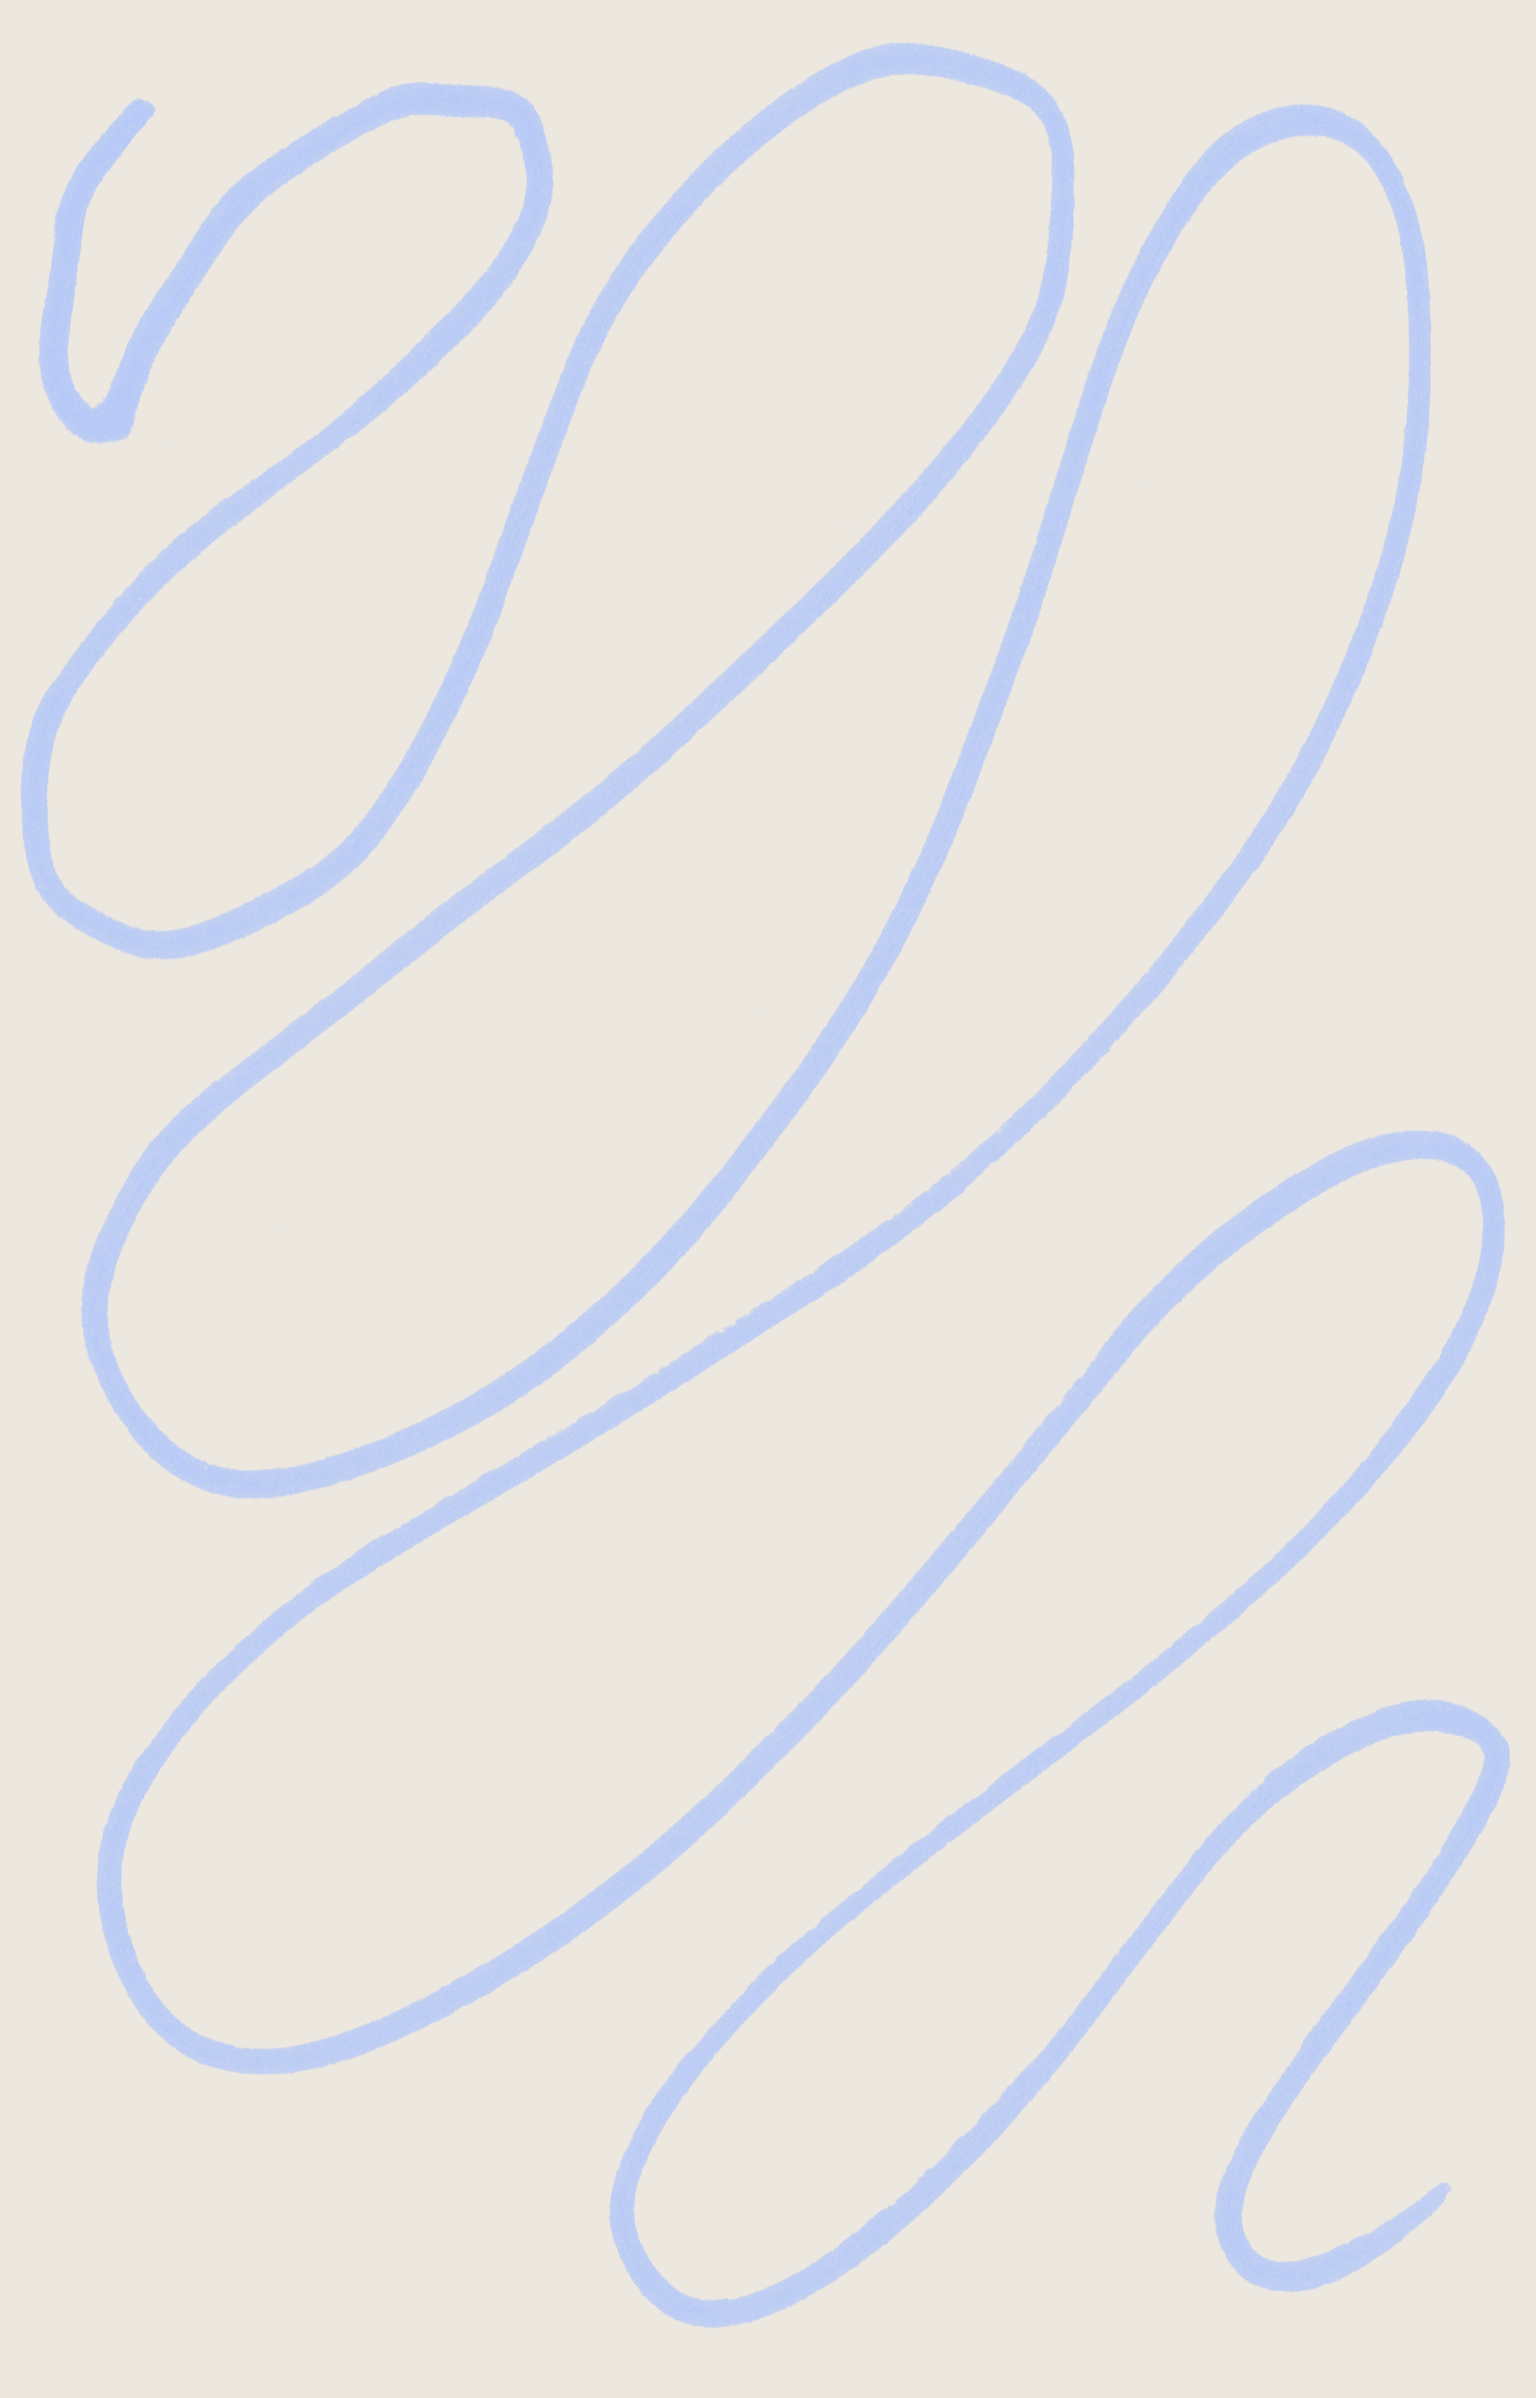
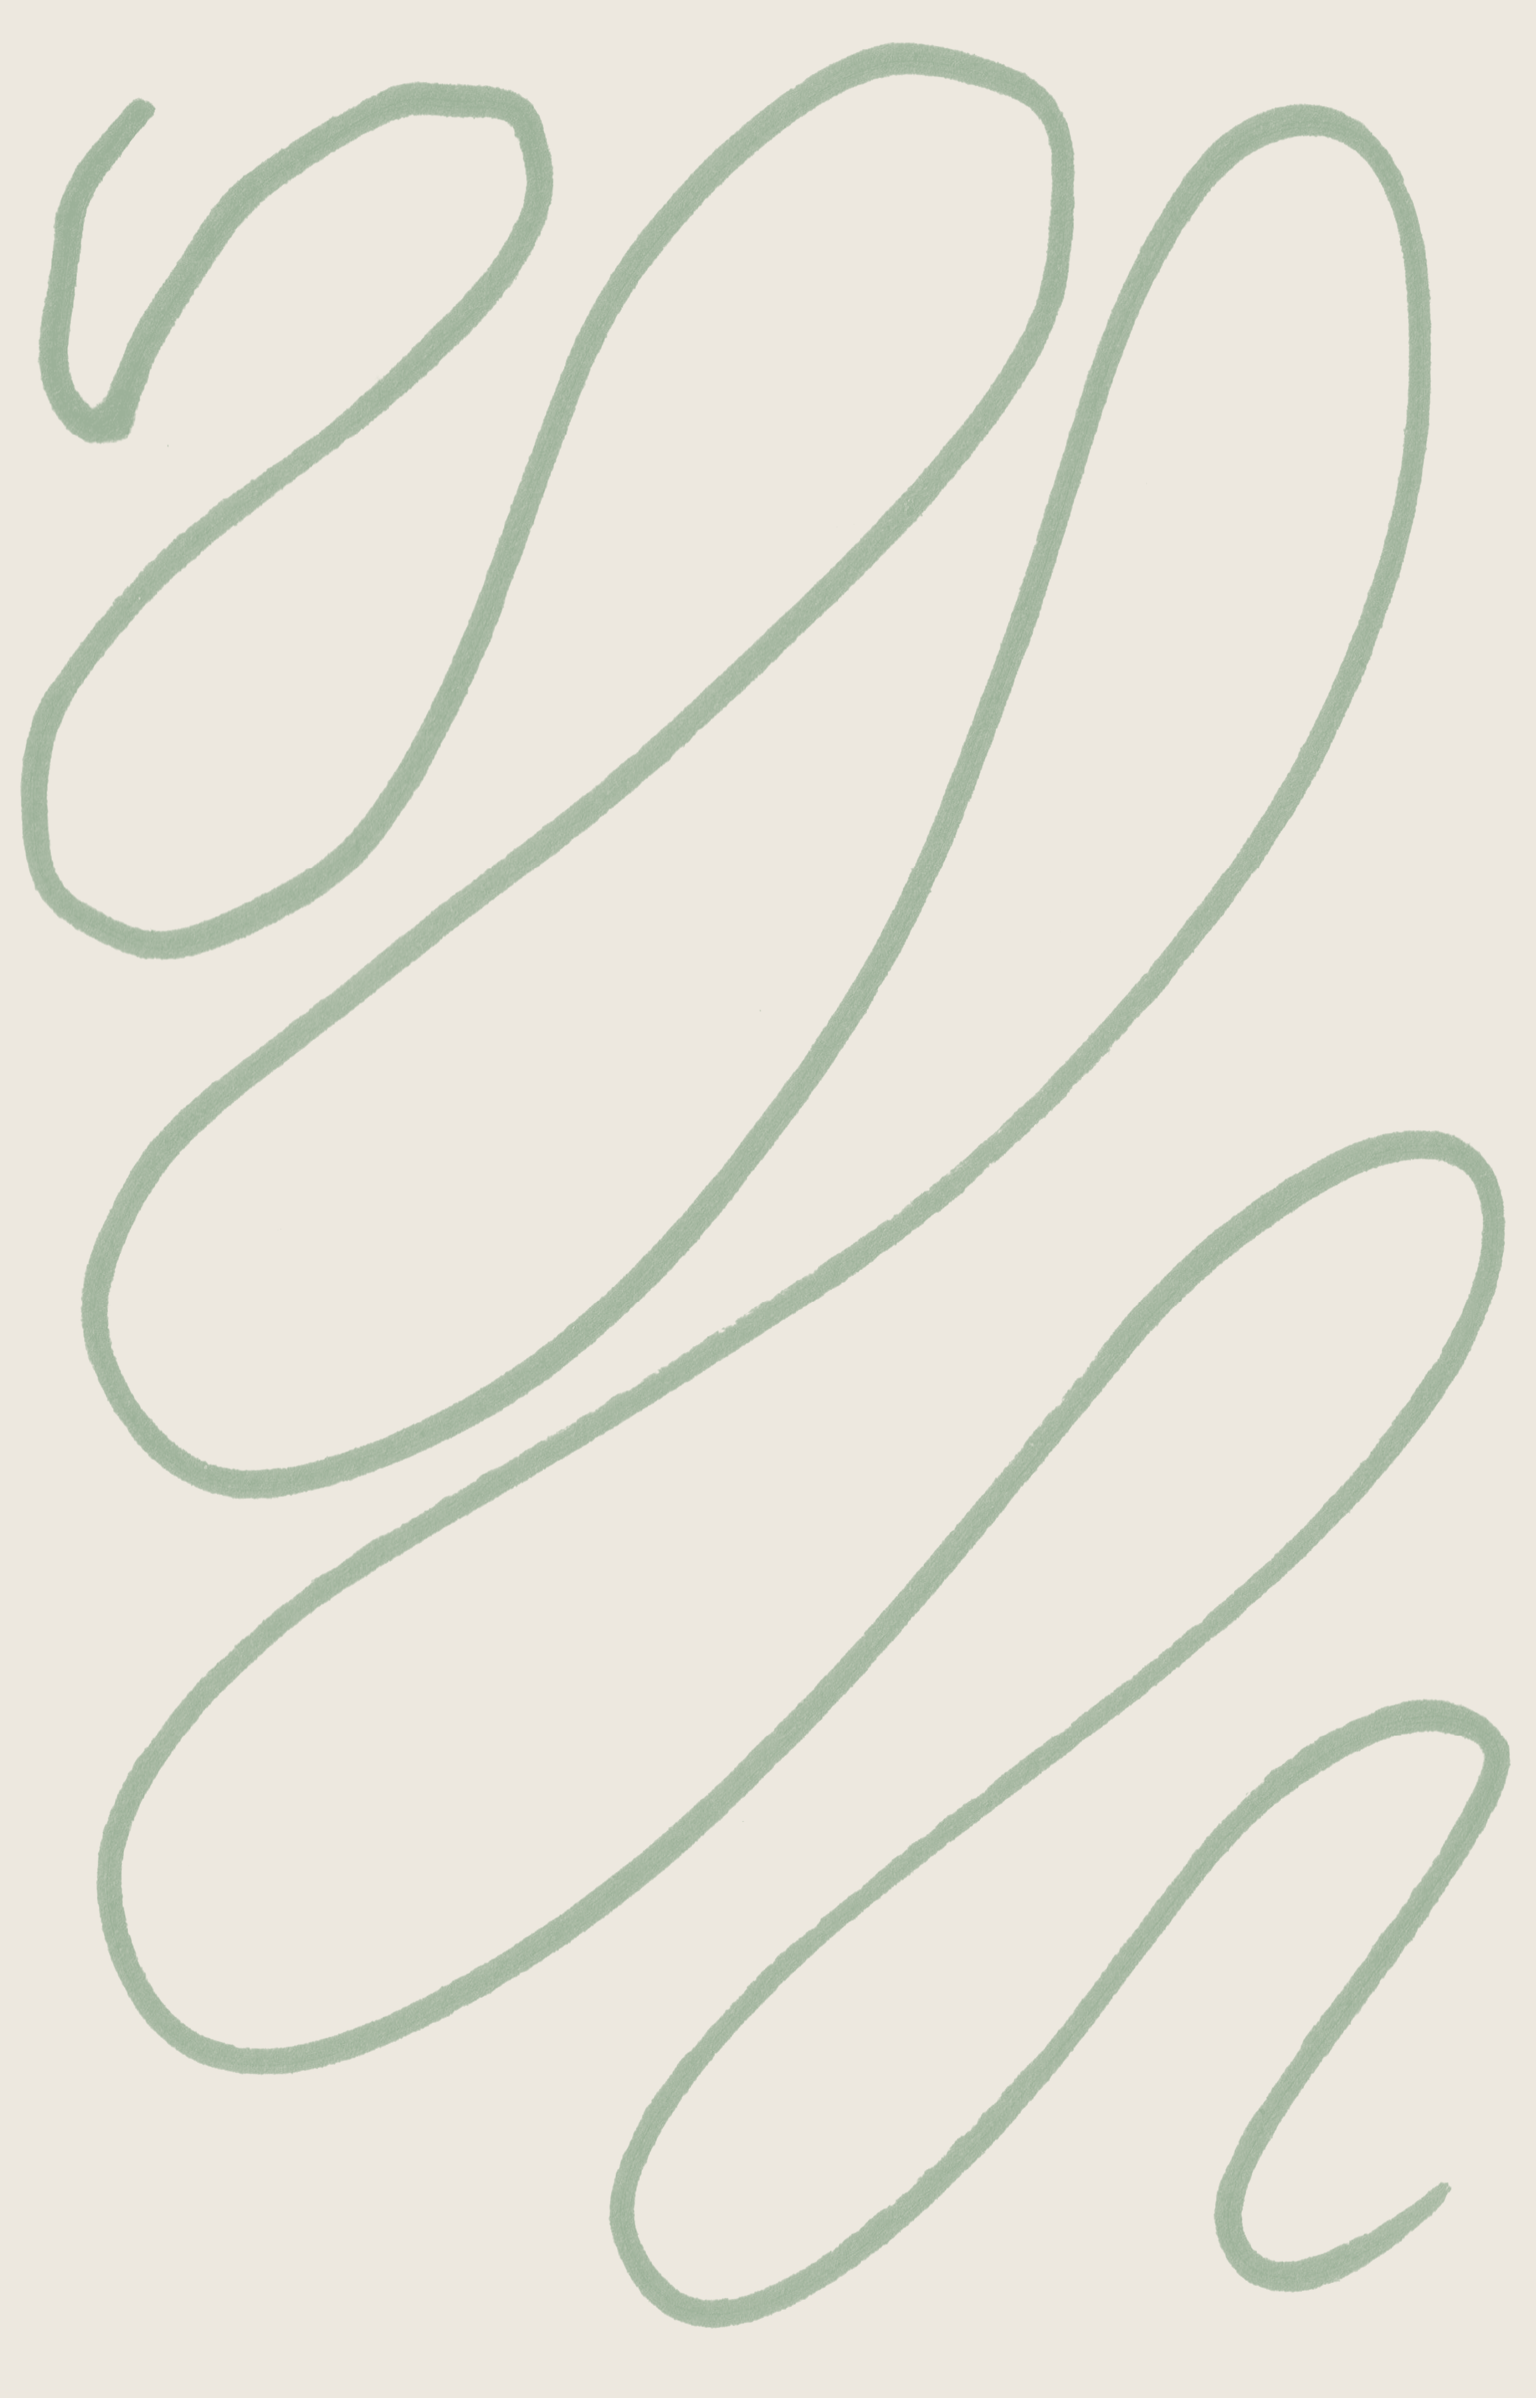
fix: restore missing mobile contact mask SVG

diff --git a/index.html b/index.html
@@ -247,13 +247,13 @@
               <button class="portfolio-strip" type="button" data-detail-target="school-03">
                 <span class="portfolio-strip-media cover-school-03"></span>
                 <span class="portfolio-strip-hover">
-                  <strong>AE 人物混剪</strong>
+                  <strong>Ae制作人物混剪</strong>
                   <span>点击查看</span>
                 </span>
                 <span class="portfolio-strip-meta">
                   <span class="project-index">03</span>
-                  <strong>AE 人物混剪</strong>
-                  <span>个人兴趣剪辑</span>
+                  <strong>人物混剪视频案例（Ae动效+时间重映射变速）</strong>
+                  <span>个人兴趣剪辑练习案例</span>
                 </span>
               </button>
 
@@ -265,21 +265,21 @@
                 </span>
                 <span class="portfolio-strip-meta">
                   <span class="project-index">04</span>
-                  <strong>可视化数据新闻</strong>
-                  <span>AE + PR 数据新闻案例</span>
+                  <strong>数据新闻可视化制作案例</strong>
+                  <span>Pr剪辑+Ae数据可视化+动画制作</span>
                 </span>
               </button>
 
               <button class="portfolio-strip" type="button" data-detail-target="school-05">
                 <span class="portfolio-strip-media cover-school-05"></span>
                 <span class="portfolio-strip-hover">
-                  <strong>野外实践拍摄</strong>
+                  <strong>野外实践拍摄（文艺主题）</strong>
                   <span>点击查看</span>
                 </span>
                 <span class="portfolio-strip-meta">
                   <span class="project-index">05</span>
-                  <strong>野外实践拍摄</strong>
-                  <span>大学野外实践拍摄剪辑</span>
+                  <strong>野外实践拍摄作品-「寻」</strong>
+                  <span>大学课外实践（拍摄+达芬奇剪辑）</span>
                 </span>
               </button>
 
@@ -481,7 +481,7 @@
         <div class="contact-list">
           <a href="tel:18378313377">18378313377</a>
           <a href="mailto:772206650@qq.com">772206650@qq.com</a>
-          <a href="#projects">Boss直聘</a>
+          <a href="#projects">微信号：tyloveparadise</a>
         </div>
         <div class="footer-tags reveal">
           <h3 class="footer-tags-title">能力标签</h3>
